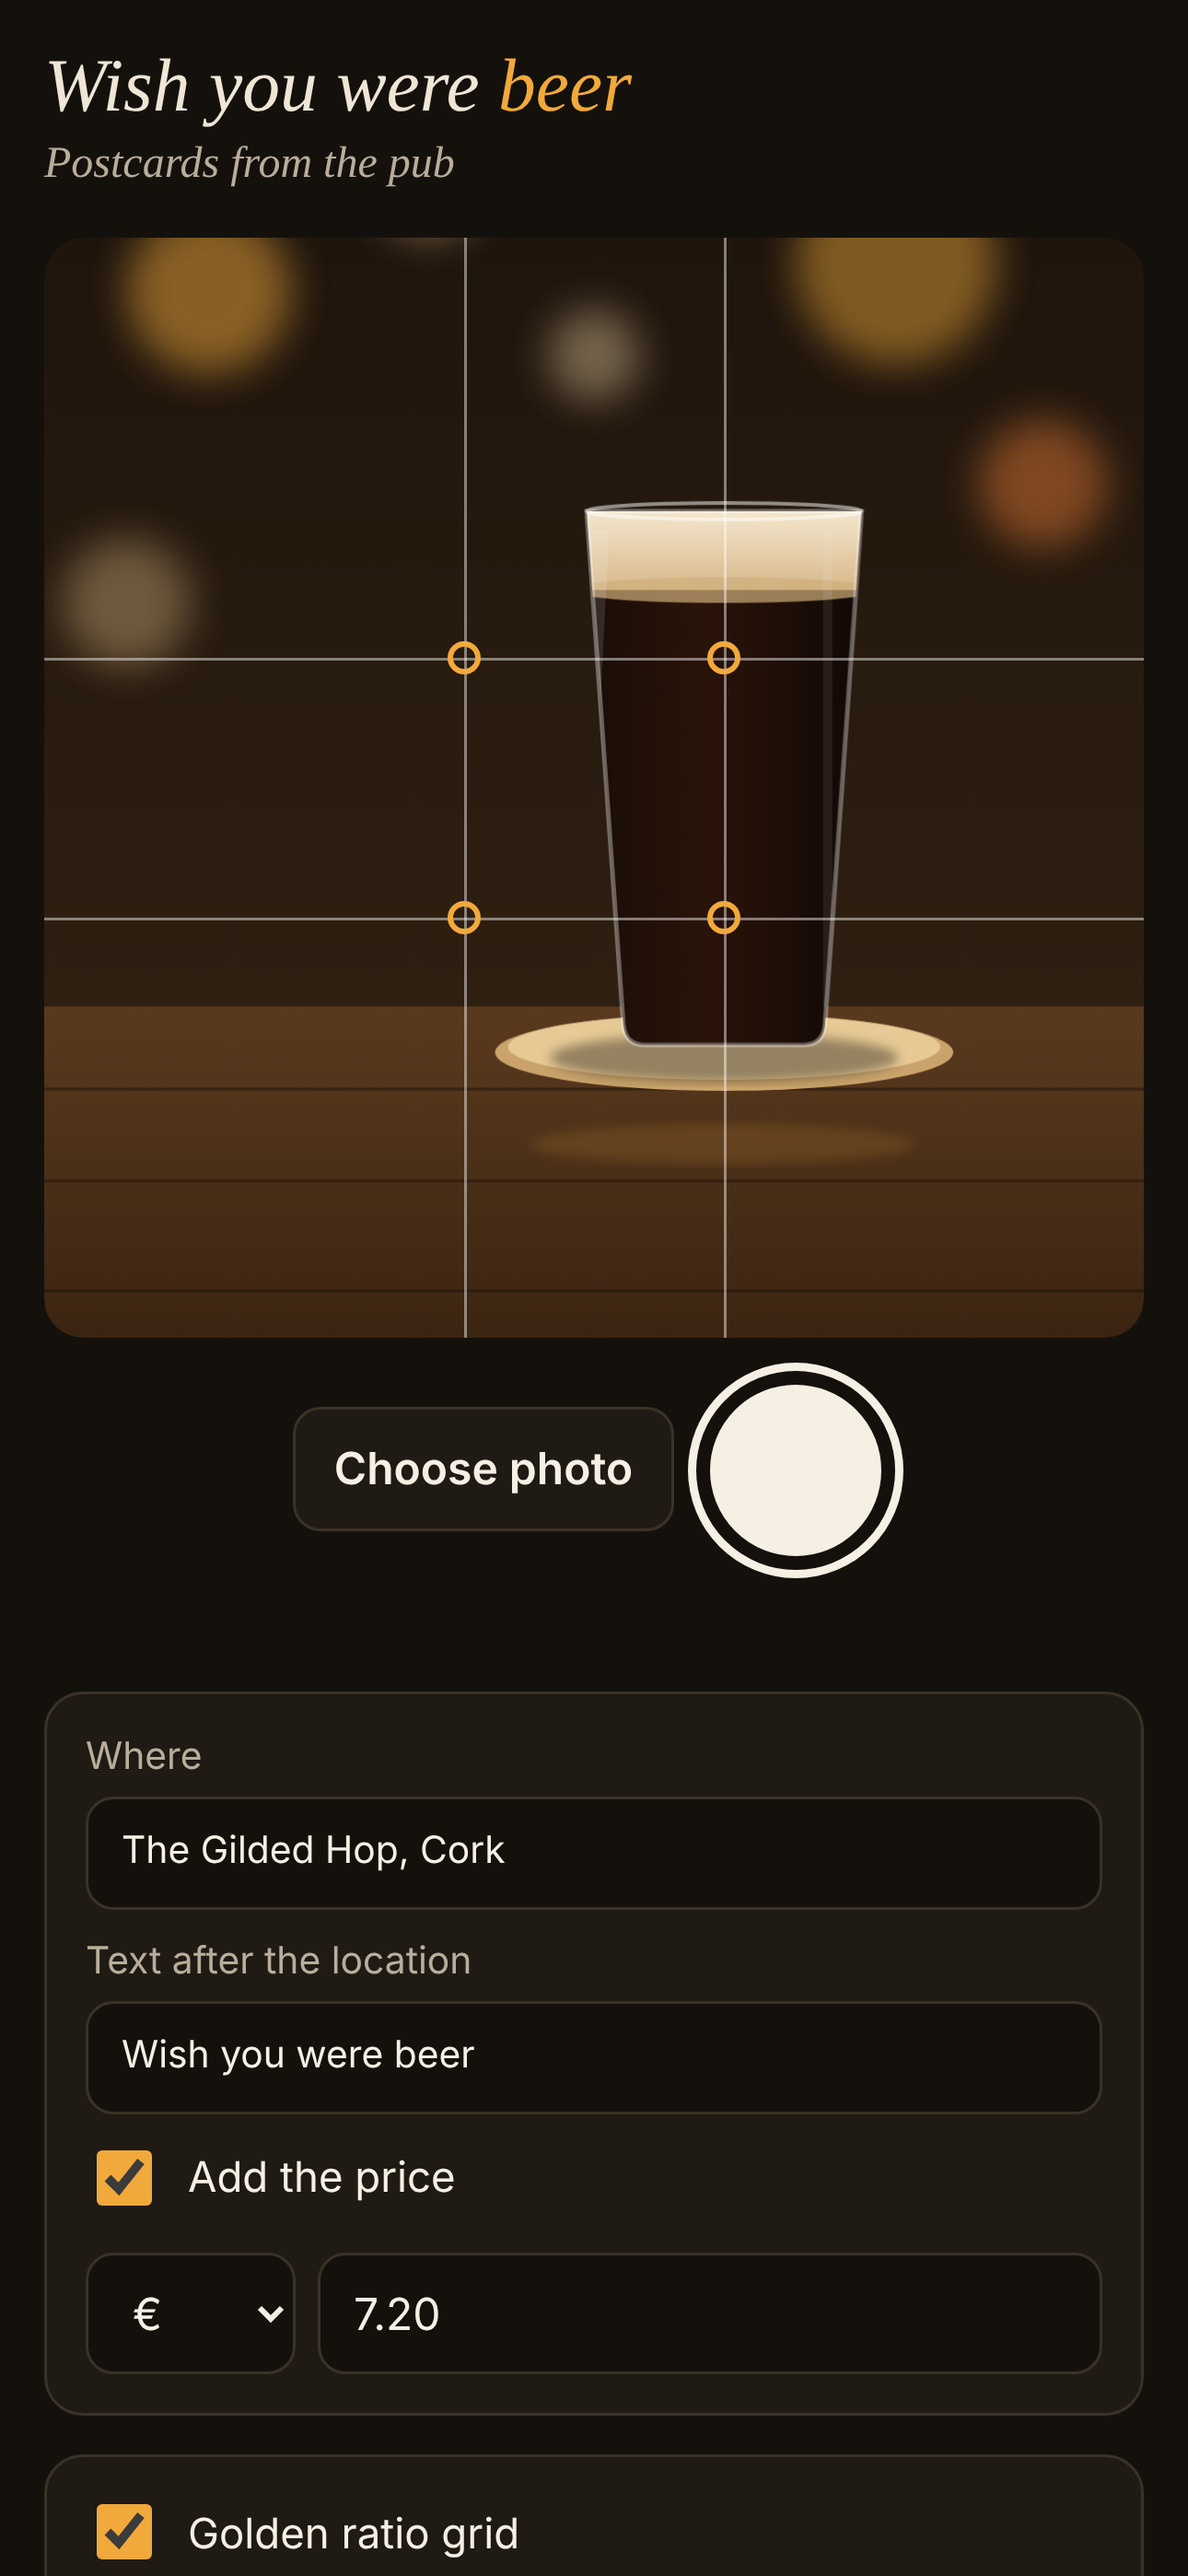
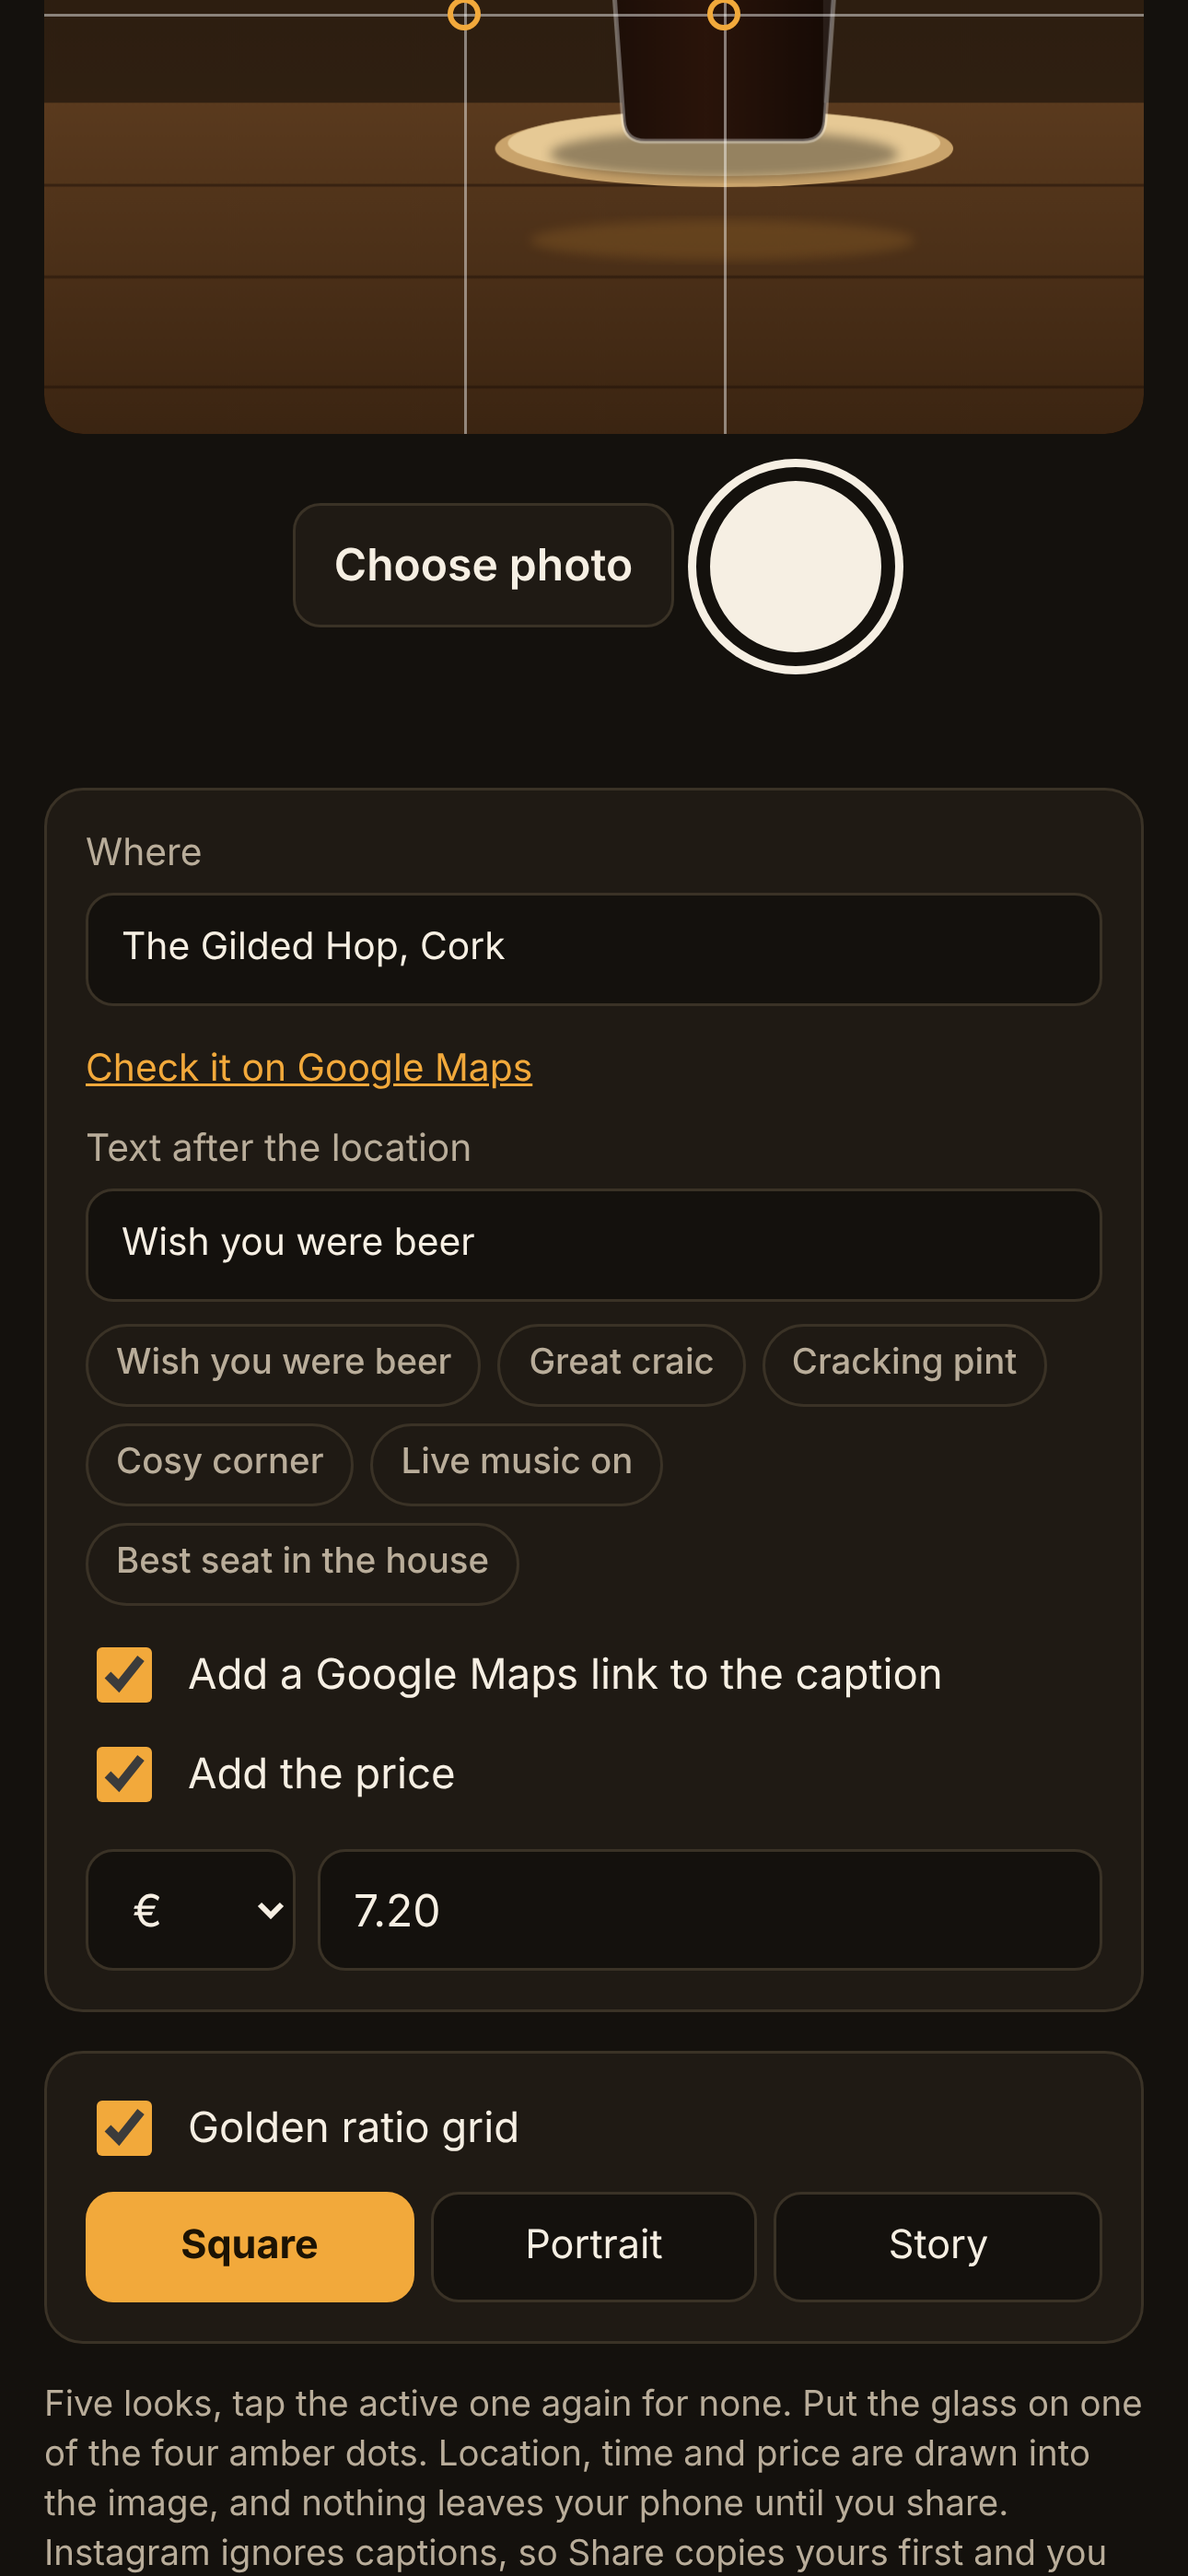
Add Google Maps link to the caption and quick positive lines
The caption carries a Maps search link for the venue (no API key), a
check link confirms Google finds the pub, and six preset lines fill the
text after the location. Launch docs and screenshots updated, pricing
recorded as free.

Claude-Session: https://claude.ai/code/session_01PGWo1C48BmUvDrftMuny1w

diff --git a/wish-you-were-beer/index.html b/wish-you-were-beer/index.html
@@ -105,6 +105,9 @@
   .check { display: flex; align-items: center; gap: 10px; margin: 0 0 10px; color: var(--ink); font-size: .95rem; }
   .check input { width: 20px; height: 20px; accent-color: var(--amber); }
 
+  .vibes { display: flex; flex-wrap: wrap; gap: 6px; margin: -2px 0 12px; }
+  .vibes button { font-size: .8rem; font-weight: 500; padding: 5px 10px; border-radius: 999px; background: transparent; color: var(--muted); }
+  .maps-check { display: inline-block; margin: -4px 0 10px; font-size: .85rem; color: var(--amber); }
   .seg { display: flex; gap: 6px; }
   .seg label { flex: 1; }
   .seg input { position: absolute; opacity: 0; }
@@ -152,11 +155,14 @@
 
   <div class="panel">
     <label class="field">Where
-      <input type="text" id="venue" maxlength="48" placeholder="Pub or bar name" autocomplete="off">
+      <input type="text" id="venue" maxlength="48" placeholder="Pub name and town" autocomplete="off">
     </label>
+    <a class="maps-check" id="mapsCheck" target="_blank" rel="noopener" hidden>Check it on Google Maps</a>
     <label class="field">Text after the location
       <input type="text" id="tag" maxlength="40" placeholder="Wish you were beer" autocomplete="off">
     </label>
+    <div class="vibes" id="vibes" aria-label="Quick lines"></div>
+    <label class="check"><input type="checkbox" id="mapsOn" checked> Add a Google Maps link to the caption</label>
     <label class="check"><input type="checkbox" id="priceOn"> Add the price</label>
     <div class="price-row" id="priceRow" hidden>
       <select id="cur" aria-label="Currency"><option>€</option><option>£</option></select>
@@ -350,8 +356,21 @@ function scheduleFile() {
   }, 250);
 }
 
+// Search link, no API key needed. A town in the venue text helps Google find the right pub.
+function mapsUrl() {
+  const v = $('venue').value.trim();
+  return v ? 'https://www.google.com/maps/search/?api=1&query=' + encodeURIComponent(v) : '';
+}
+
 function caption() {
-  return [mainLine(), priceText(), '#WishYouWereBeer'].filter(Boolean).join(' · ');
+  const first = [mainLine(), priceText(), '#WishYouWereBeer'].filter(Boolean).join(' · ');
+  return [first, $('mapsOn').checked ? mapsUrl() : ''].filter(Boolean).join('\n');
+}
+
+function paintMapsCheck() {
+  const url = mapsUrl();
+  $('mapsCheck').hidden = !url;
+  if (url) $('mapsCheck').href = url;
 }
 
 function say(msg) { $('status').textContent = msg; }
@@ -471,7 +490,7 @@ $('share').onclick = async () => {
   navigator.clipboard?.writeText(caption()).catch(() => {});
   if (navigator.canShare?.({ files: [file] })) {
     try {
-      await navigator.share({ files: [file] });
+      await navigator.share({ files: [file], text: caption() });
       say('Caption copied. Paste it in if the app asks for one.');
     } catch (e) {
       if (e.name !== 'AbortError') say('Sharing failed. Try Save instead.');
@@ -489,6 +508,7 @@ document.querySelectorAll('input[name=fmt]').forEach(r => r.onchange = applyForm
 ['venue', 'tag', 'price'].forEach(id => {
   $(id).addEventListener('input', () => {
     if (id !== 'price') store.set('wywb.' + id, $(id).value);
+    paintMapsCheck();
     render();
   });
 });
@@ -517,10 +537,22 @@ const savedLook = store.get('wywb.look');
 if (savedLook !== null && (savedLook === '' || LOOKS[savedLook])) state.look = savedLook;
 paintLooks();
 
+['Wish you were beer', 'Great craic', 'Cracking pint', 'Cosy corner', 'Live music on', 'Best seat in the house'].forEach(t => {
+  const b = document.createElement('button');
+  b.type = 'button';
+  b.textContent = t;
+  b.onclick = () => { $('tag').value = t; store.set('wywb.tag', t); render(); };
+  $('vibes').appendChild(b);
+});
+
+$('mapsOn').checked = store.get('wywb.maps') !== 'off';
+$('mapsOn').onchange = () => store.set('wywb.maps', $('mapsOn').checked ? 'on' : 'off');
+
 $('venue').value = store.get('wywb.venue') || '';
 $('tag').value = store.get('wywb.tag') ?? 'Wish you were beer';
 $('cur').value = store.get('wywb.cur') || '€';
 
+paintMapsCheck();
 applyFormat();
 startCamera();
 

diff --git a/wish-you-were-beer/launch/APP_STORE.md b/wish-you-were-beer/launch/APP_STORE.md
@@ -61,7 +61,7 @@ Lines 5 and 7 are the cheekiest. Keep lines that celebrate volume (rounds piling
 > Take the photo in the app or choose one from your camera roll. A golden ratio grid shows where the glass should sit, so even a shaky pub snap ends up looking composed.
 >
 > WHAT IT DOES
-> Where: type the pub and add your own line after it.
+> Where: type the pub and town, add your own line after it, and the caption carries a Google Maps link so friends can find the place.
 > When: the date and time are added for you.
 > How much: add the price as a stamp in the corner, in € or £. Irish pints deserve a record.
 > Five looks: Stout, Lager, Pale, Last Orders and Snug.
@@ -94,7 +94,9 @@ Suggested text for the review notes field:
 4. **Screenshots.** Apple wants screenshots that show the real app in use. The ones in `framed/` use an illustrated pint as a stand in. Replace them with real photos before you submit.
 5. **Using a real pub name.** The screenshots use an invented pub, "The Gilded Hop, Cork". Keep it that way in store images.
 
-## Pricing options
+## Pricing
+
+Decided: the app is free. The table below is kept for the record.
 
 | Option | For | Against |
 | --- | --- | --- |
@@ -102,4 +104,4 @@ Suggested text for the review notes field:
 | One off, about €1.99 | Fits the "no subscriptions, no ads" posture, filters out casual downloads | Fewer people try it |
 | Free with a paid pack of looks | Familiar model | More to build, and it adds purchase review work |
 
-Recommendation: free through TestFlight to your friends first, then decide. A subscription does not suit a joke app. VERIFY Apple's small business commission programme if you charge.
+Free means no income, so keep running costs at zero. The Google Maps link in the caption is a plain search link and needs no key or billing. A venue lookup through the Google Places API is not free at scale (VERIFY the current pricing), so I have not used it.

diff --git a/wish-you-were-beer/launch/PRICE_LOG.md b/wish-you-were-beer/launch/PRICE_LOG.md
@@ -6,6 +6,10 @@ This is the one feature that needs a server. I have prepared the design and the 
 
 When someone shares a postcard with a price on it, the app could also send one anonymous record: the venue, the price, the date. Over time that becomes a map of what a pint costs in each pub, which is the part of the idea that grows with more users. The postcards are a joke people share once. A price map is something strangers use.
 
+## A tension to settle first
+
+You want the app to highlight and promote places, and the price stamp is partly a joke about how expensive pints are. A public map of prices turns that joke into a ranking of the dearest pubs, which is the opposite of promotion for the venue. If promotion is the aim, I would drop the price log and keep the price as something a person chooses to put on their own card.
+
 ## Rules I would keep
 
 1. **Opt in, off by default.** A switch labelled "Add this price to the pint price map", with one line saying what is sent.

diff --git a/wish-you-were-beer/launch/README.md b/wish-you-were-beer/launch/README.md
@@ -21,7 +21,7 @@ The pint in every image is an illustration standing in for a real photo, and the
 1. **Distribution.** Friends on the web version first, then TestFlight, then the App Store (my recommendation), or straight to the App Store.
 2. **Price log.** You said yes to the idea, but it is the one thing that changes the privacy position and needs a server. I recommend building it after TestFlight, switched off by default. Do you want it earlier?
 3. **Name.** Keep "Wish You Were Beer"? The trademark search is still to do, and I could not do it from here.
-4. **Pricing.** Free, or a one off payment?
+4. **Pricing.** Decided: free. See the note in `APP_STORE.md` on keeping running costs at zero.
 5. **Bundle ID.** Which domain do you own?
 6. **Mac.** Do you have one for Xcode? It decides how Stage 1 works.
 7. **Taglines.** Pick from the list in `APP_STORE.md`.

diff --git a/wish-you-were-beer/launch/WORKFLOW.md b/wish-you-were-beer/launch/WORKFLOW.md
@@ -37,6 +37,8 @@ There are no accounts, no feed, no settings screen and no onboarding.
 
 ## Share behaviour
 
+The caption holds the pub, your line, the price, the hashtag and a Google Maps search link for the pub, which you can switch off. Maps links are clickable on X, Threads, WhatsApp and Facebook. Instagram captions do not turn links into clickable text, so there the link only works if someone copies it. The app cannot set an Instagram location tag for you, because Instagram does not accept one from a share sheet.
+
 Share copies the caption first, then opens the phone's share sheet with the image. Instagram ignores any caption sent with an image, so the person pastes it in. If the browser cannot share files, the image is saved instead and the caption is still copied.
 
 ## Release path
